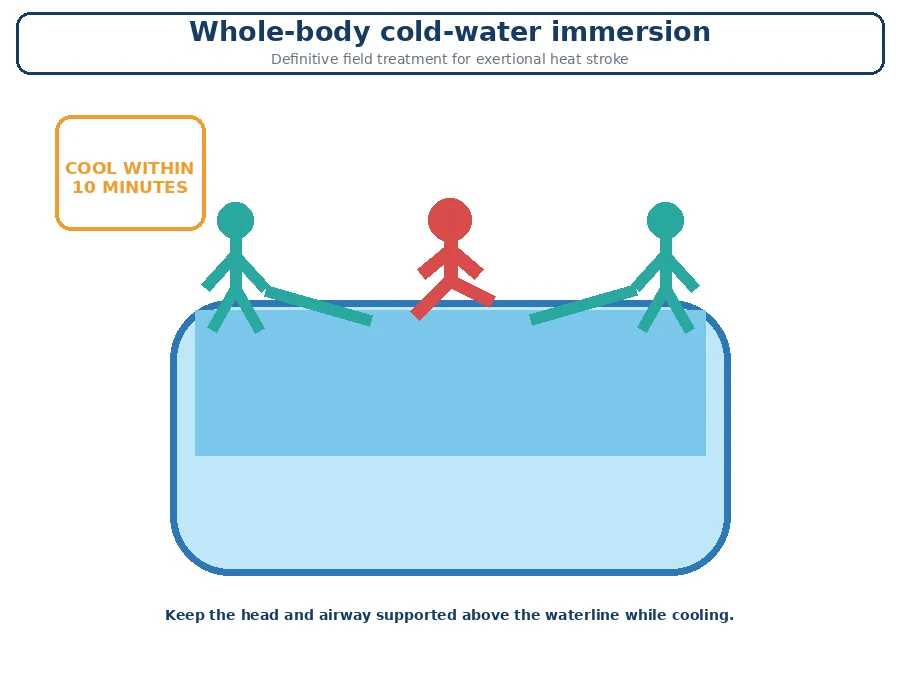
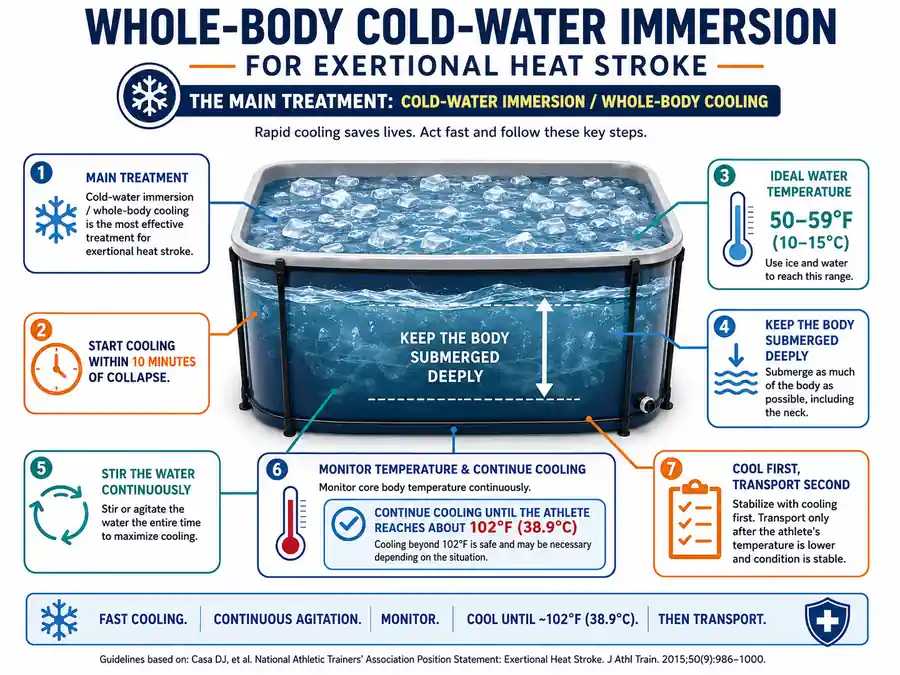
Heat-illness: photoreal diagram redos + Exertional Heat Illnesses source
ChatGPT's redo replaced the weak 7-8 stick-figure diagrams with polished
photorealistic infographics: warning-signs (distressed athlete + 7
labeled signs), heat-stroke-emergency (immersion scene + CALL 911 / cool
first, transport second), and an upgraded cold-water-immersion technique
(7 steps: 50-59F water, cool within 10 min, target ~102F). All
medically accurate, correct ratios, 56-59 KB.

Cites all three heat-illness units with the NATA Exertional Heat
Illnesses position statement (J Athl Train 2015;50(9):986-1000).

Holds sweat-cooling: it's the last sparse stick-figure diagram and now
looks out of place next to the polished set — pending a restyle.

Verified: validate:content passes, build precaches the set, all three
heat-illness units render with zero load failures (only sweat-cooling
placeholder), and the Sources section renders.

Claude-Session: https://claude.ai/code/session_01UM4ixHCb7HXGwveumyUh18

diff --git a/src/components/ImagePlaceholder.jsx b/src/components/ImagePlaceholder.jsx
@@ -80,8 +80,8 @@ const REAL_IMAGE_PATHS = {
     'images/units/concussion/concussion-return-to-play-stages.webp',
   'concussion-neurometabolic-cascade.webp':
     'images/units/concussion/concussion-neurometabolic-cascade.webp',
-  // Heat-illness lesson diagrams (batch 4). warning-signs and
-  // heat-stroke-emergency held (7-8 slots) pending image redos.
+  // Heat-illness lesson diagrams (batch 4). sweat-cooling held (7-8 slot)
+  // pending a restyle to match the others.
   'heat-illness-dissipation-pathways.webp':
     'images/units/heat-illness/heat-illness-dissipation-pathways.webp',
   'heat-illness-collapse-differential.webp':
@@ -92,8 +92,10 @@ const REAL_IMAGE_PATHS = {
     'images/units/heat-illness/heat-illness-cold-water-immersion-technique.webp',
   'heat-illness-prevention-habits.webp':
     'images/units/heat-illness/heat-illness-prevention-habits.webp',
-  'heat-illness-sweat-cooling.webp':
-    'images/units/heat-illness/heat-illness-sweat-cooling.webp',
+  'heat-illness-warning-signs.webp':
+    'images/units/heat-illness/heat-illness-warning-signs.webp',
+  'heat-illness-heat-stroke-emergency.webp':
+    'images/units/heat-illness/heat-illness-heat-stroke-emergency.webp',
 }
 
 function ratioToCss(ratio) {